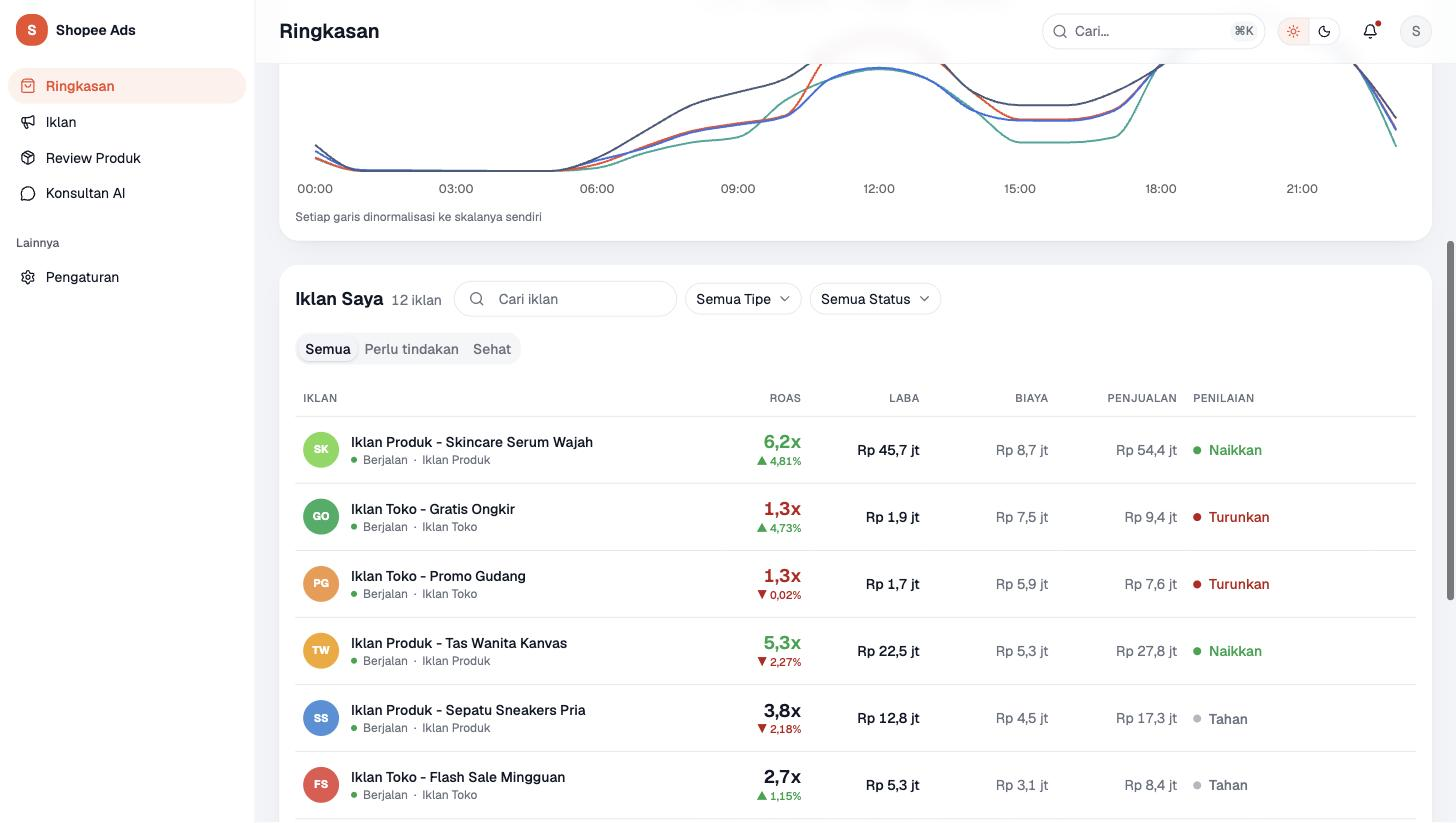
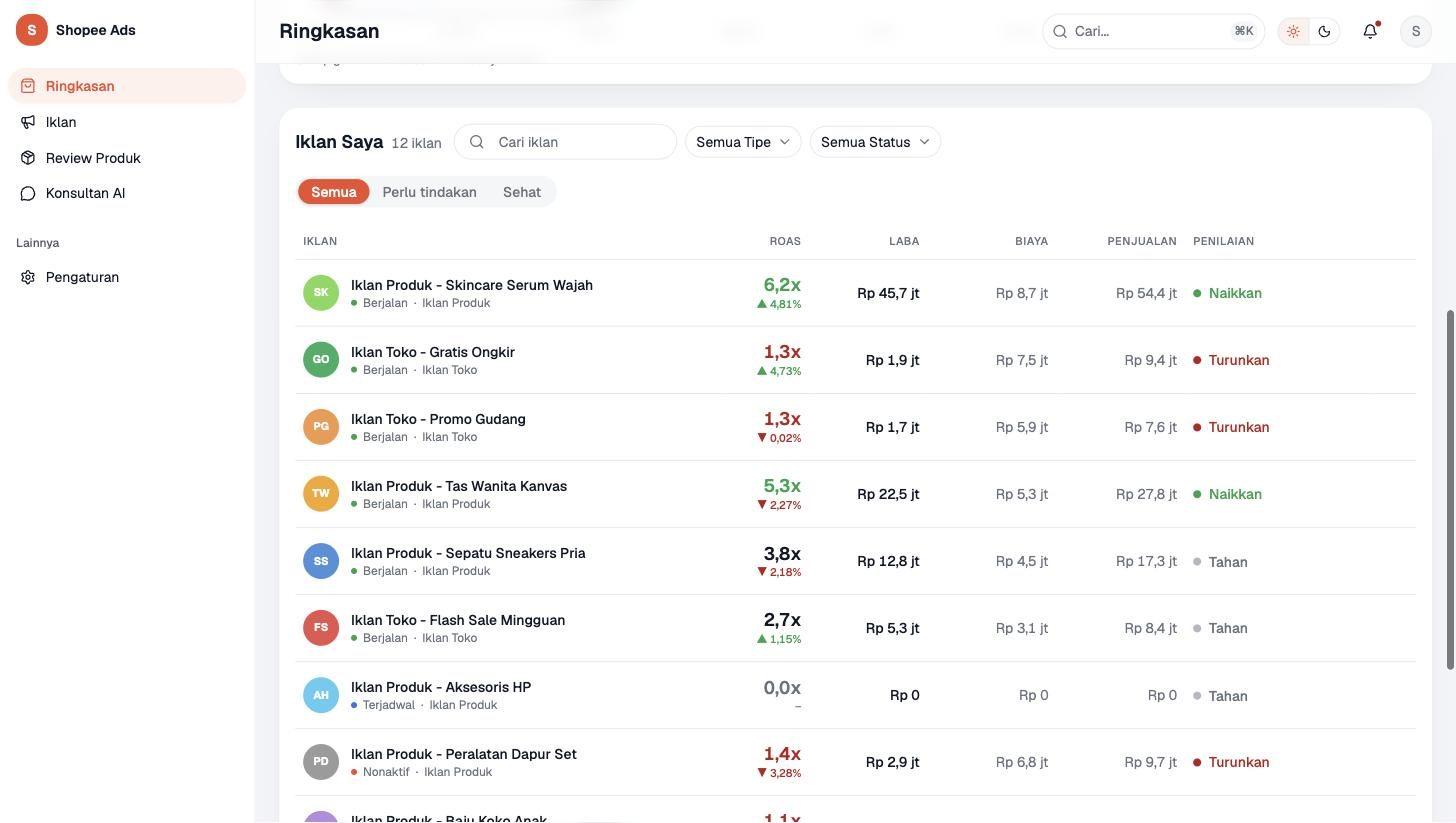
Orange active states: solid brand tabs, brand select trigger when open, tinted filled filters and search
Claude-Session: https://claude.ai/code/session_01LrCNzuyKN1NNqyHNg6J7f8

diff --git a/src/components/ui/tabs.tsx b/src/components/ui/tabs.tsx
@@ -23,7 +23,7 @@ function Tabs({
 }
 
 const tabsListVariants = cva(
-  "group/tabs-list inline-flex w-fit items-center justify-center rounded-lg p-[3px] text-muted-foreground group-data-horizontal/tabs:h-8 group-data-vertical/tabs:h-fit group-data-vertical/tabs:flex-col data-[variant=line]:rounded-none",
+  "group/tabs-list inline-flex w-fit items-center justify-center rounded-full p-[3px] text-muted-foreground group-data-horizontal/tabs:h-8 group-data-vertical/tabs:h-fit group-data-vertical/tabs:flex-col data-[variant=line]:rounded-none",
   {
     variants: {
       variant: {
@@ -57,9 +57,9 @@ function TabsTrigger({ className, ...props }: TabsPrimitive.Tab.Props) {
     <TabsPrimitive.Tab
       data-slot="tabs-trigger"
       className={cn(
-        "relative inline-flex h-[calc(100%-1px)] flex-1 items-center justify-center gap-1.5 rounded-md border border-transparent px-1.5 py-0.5 text-sm font-medium whitespace-nowrap text-foreground/60 transition-all group-data-vertical/tabs:w-full group-data-vertical/tabs:justify-start hover:text-foreground focus-visible:border-ring focus-visible:ring-[3px] focus-visible:ring-ring/50 focus-visible:outline-1 focus-visible:outline-ring disabled:pointer-events-none disabled:opacity-50 has-data-[icon=inline-end]:pr-1 has-data-[icon=inline-start]:pl-1 aria-disabled:pointer-events-none aria-disabled:opacity-50 dark:text-muted-foreground dark:hover:text-foreground group-data-[variant=default]/tabs-list:data-active:shadow-sm group-data-[variant=line]/tabs-list:data-active:shadow-none [&_svg]:pointer-events-none [&_svg]:shrink-0 [&_svg:not([class*='size-'])]:size-4",
+        "relative inline-flex h-[calc(100%-1px)] flex-1 items-center justify-center gap-1.5 rounded-full border border-transparent px-3 py-0.5 text-sm font-medium whitespace-nowrap text-foreground/60 transition-all group-data-vertical/tabs:w-full group-data-vertical/tabs:justify-start hover:text-brand focus-visible:border-ring focus-visible:ring-[3px] focus-visible:ring-ring/50 focus-visible:outline-1 focus-visible:outline-ring disabled:pointer-events-none disabled:opacity-50 has-data-[icon=inline-end]:pr-1 has-data-[icon=inline-start]:pl-1 aria-disabled:pointer-events-none aria-disabled:opacity-50 dark:text-muted-foreground dark:hover:text-foreground group-data-[variant=default]/tabs-list:data-active:shadow-sm group-data-[variant=line]/tabs-list:data-active:shadow-none [&_svg]:pointer-events-none [&_svg]:shrink-0 [&_svg:not([class*='size-'])]:size-4",
         "group-data-[variant=line]/tabs-list:bg-transparent group-data-[variant=line]/tabs-list:data-active:bg-transparent dark:group-data-[variant=line]/tabs-list:data-active:border-transparent dark:group-data-[variant=line]/tabs-list:data-active:bg-transparent",
-        "data-active:bg-background data-active:text-foreground dark:data-active:border-input dark:data-active:bg-input/30 dark:data-active:text-foreground",
+        "data-active:bg-brand data-active:text-white data-active:shadow-[0_6px_16px_-8px_var(--brand)] dark:data-active:border-transparent dark:data-active:bg-brand dark:data-active:text-white",
         "after:absolute after:bg-foreground after:opacity-0 after:transition-opacity group-data-horizontal/tabs:after:inset-x-0 group-data-horizontal/tabs:after:bottom-[-5px] group-data-horizontal/tabs:after:h-0.5 group-data-vertical/tabs:after:inset-y-0 group-data-vertical/tabs:after:-right-1 group-data-vertical/tabs:after:w-0.5 group-data-[variant=line]/tabs-list:data-active:after:opacity-100",
         className
       )}

diff --git a/src/features/ringkasan/AdList.tsx b/src/features/ringkasan/AdList.tsx
@@ -27,6 +27,9 @@ type AdTypeFilter = AdListParams["adType"]
 
 const DEFAULT_PAGE_SIZE = 20
 
+// A filter that is narrowing the list reads orange, like an active tab.
+const FILLED = "border-brand bg-brand-tint text-brand hover:border-brand"
+
 const STATUS_ITEMS: Record<StatusFilter, string> = {
   all: "Semua Status",
   scheduled: "Terjadwal",
@@ -126,7 +129,7 @@ export function AdList({ range }: AdListProps) {
             {data && <span className="text-sm text-muted-foreground tabular-nums">{data.total} iklan</span>}
           </div>
           <div className="flex flex-wrap items-center gap-2">
-            <InputGroup className="w-56">
+            <InputGroup className={cn("w-56", search && FILLED)}>
               <InputGroupInput
                 placeholder="Cari iklan"
                 value={search}
@@ -135,7 +138,7 @@ export function AdList({ range }: AdListProps) {
               <InputGroupAddon><Search /></InputGroupAddon>
             </InputGroup>
             <Select items={AD_TYPE_ITEMS} value={adType} onValueChange={(v) => { setAdType(v as AdTypeFilter); resetPage() }}>
-              <SelectTrigger><SelectValue /></SelectTrigger>
+              <SelectTrigger className={cn(adType !== "all" && FILLED)}><SelectValue /></SelectTrigger>
               <SelectContent>
                 <SelectGroup>
                   {Object.entries(AD_TYPE_ITEMS).map(([value, label]) => <SelectItem key={value} value={value}>{label}</SelectItem>)}
@@ -143,7 +146,7 @@ export function AdList({ range }: AdListProps) {
               </SelectContent>
             </Select>
             <Select items={STATUS_ITEMS} value={status} onValueChange={(v) => { setStatus(v as StatusFilter); resetPage() }}>
-              <SelectTrigger><SelectValue /></SelectTrigger>
+              <SelectTrigger className={cn(status !== "all" && FILLED)}><SelectValue /></SelectTrigger>
               <SelectContent>
                 <SelectGroup>
                   {Object.entries(STATUS_ITEMS).map(([value, label]) => <SelectItem key={value} value={value}>{label}</SelectItem>)}

diff --git a/src/components/ui/select.tsx b/src/components/ui/select.tsx
@@ -38,7 +38,7 @@ function SelectTrigger({
       data-slot="select-trigger"
       data-size={size}
       className={cn(
-        "flex w-fit items-center justify-between gap-1.5 rounded-full border border-input bg-transparent py-2 pr-2 pl-2.5 text-sm whitespace-nowrap transition-colors outline-none select-none focus-visible:border-ring focus-visible:ring-3 focus-visible:ring-ring/50 disabled:cursor-not-allowed disabled:opacity-50 aria-invalid:border-destructive aria-invalid:ring-3 aria-invalid:ring-destructive/20 data-placeholder:text-muted-foreground data-[size=default]:h-8 data-[size=sm]:h-7 data-[size=sm]:rounded-full *:data-[slot=select-value]:line-clamp-1 *:data-[slot=select-value]:flex *:data-[slot=select-value]:items-center *:data-[slot=select-value]:gap-1.5 dark:bg-input/30 dark:hover:bg-input/50 dark:aria-invalid:border-destructive/50 dark:aria-invalid:ring-destructive/40 [&_svg]:pointer-events-none [&_svg]:shrink-0 [&_svg:not([class*='size-'])]:size-4",
+        "flex w-fit items-center justify-between gap-1.5 rounded-full border border-input bg-transparent py-2 pr-2 pl-2.5 text-sm whitespace-nowrap transition-colors outline-none select-none focus-visible:border-ring focus-visible:ring-3 focus-visible:ring-ring/50 disabled:cursor-not-allowed disabled:opacity-50 aria-invalid:border-destructive aria-invalid:ring-3 aria-invalid:ring-destructive/20 hover:border-brand/50 data-popup-open:border-brand data-popup-open:text-brand data-placeholder:text-muted-foreground data-[size=default]:h-8 data-[size=sm]:h-7 data-[size=sm]:rounded-full *:data-[slot=select-value]:line-clamp-1 *:data-[slot=select-value]:flex *:data-[slot=select-value]:items-center *:data-[slot=select-value]:gap-1.5 dark:bg-input/30 dark:hover:bg-input/50 dark:aria-invalid:border-destructive/50 dark:aria-invalid:ring-destructive/40 [&_svg]:pointer-events-none [&_svg]:shrink-0 [&_svg:not([class*='size-'])]:size-4",
         className
       )}
       {...props}

diff --git a/docs/logs/2026-09-17-1621-filters-active-orange.md b/docs/logs/2026-09-17-1621-filters-active-orange.md
@@ -1,0 +1,15 @@
+---
+task: make filter controls feel alive with brand-orange active states
+run: manual
+units: 1
+status: pass
+files: [src/components/ui/tabs.tsx, src/components/ui/select.tsx, src/features/ringkasan/AdList.tsx]
+---
+## units
+- filters | pass | core tabs: active trigger = solid brand bg, white text, soft brand shadow, pill radius on list + triggers, hover text-brand; core select trigger: hover border-brand/50, data-popup-open border+text brand; AdList: FILLED class (border-brand bg-brand-tint text-brand) applied to Tipe/Status selects when value != all and to the search InputGroup when non-empty | check: npx tsc -b && npm run build && Chrome (tab active, select open)
+## audit
+- filters | logic:pass review:pass | repaired:no
+## issues-open
+- src/features/ringkasan/AdList.tsx | low | filled-select and filled-search states verified by code only (page scroll jumped during capture); eyeball once in the Iklan screen build
+## next
+- Chat screen (F3.1–F3.3)
